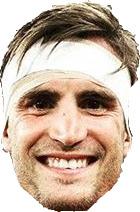
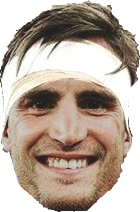
Contraste Tagliafico + reducción de chequeo

diff --git a/bot/commands/nuevo_instagram.py b/bot/commands/nuevo_instagram.py
@@ -1,6 +1,6 @@
 from discord.ext import commands
 
-from models.influencer import InfluencerModel
+from models.influencer import AttentionLevel, InfluencerModel
 from models.news_source import NewsSource
 from models.social_media import SocialMedia
 
@@ -9,29 +9,32 @@ class NuevoInstagram(commands.Cog):
         self.bot = bot
 
     @commands.command(name='nuevo_instagram')
-    async def nuevo_influencer(self, ctx, username: str, description: str, source: str):
-        
+    async def nuevo_influencer(self, ctx, username: str, description: str, source: str, attention: str = "high"):
         try:
             source_enum = NewsSource(source.lower())
             platform_enum = SocialMedia.INSTAGRAM
+            attention_enum = AttentionLevel(attention.lower())
 
-            if self.bot.influencer_dao.exists(username,platform_enum):
+            if self.bot.influencer_dao.exists(username, platform_enum):
                 await self.bot.messager.log(f'Ya sigo a {description} en Instagram.')
                 return
-            
+
             account = InfluencerModel(
                 account_id=None,
                 name=username,
                 description=description,
                 source=source_enum,
-                platform=platform_enum
+                platform=platform_enum,
+                attention=attention_enum,
             )
-            
+
             self.bot.influencer_dao.insert(account)
-            
-            await self.bot.messager.log(f'Suscrito a {description} a Instagram.')
+            await self.bot.messager.log(f'Suscrito a {description} en Instagram (atención: {attention_enum.value}).')
         except ValueError:
-            await self.bot.messager.log(f"No reconozco la fuente '{source}' para Instagram.", level="WARNING")
+            await self.bot.messager.log(
+                f"Parámetro inválido. Source debe ser un NewsSource válido y attention 'high' o 'low'.",
+                level="WARNING",
+            )
 
 async def setup(bot):
     await bot.add_cog(NuevoInstagram(bot))

diff --git a/bot/scheduled/instagram_check.py b/bot/scheduled/instagram_check.py
@@ -1,9 +1,18 @@
 import asyncio
 import random
+from datetime import datetime
 
 from discord.ext import commands, tasks
 
+from config.settings import settings
 from integrations.instagram import Instagram
+from models.influencer import AttentionLevel
+from models.social_media import SocialMedia
+
+# High: every hour except 02:00–07:59
+_HIGH_ACTIVE_HOURS = set(range(0, 2)) | set(range(8, 24))
+# Low: twice a day within 08:00–19:00
+_LOW_ACTIVE_HOURS = {9, 15}
 
 
 class InstagramCheckScheduler(commands.Cog):
@@ -18,11 +27,25 @@ class InstagramCheckScheduler(commands.Cog):
         if not self.instagram_scheduled_job.is_running():
             self.instagram_scheduled_job.start()
 
-    @tasks.loop(minutes=45)
+    @tasks.loop(hours=1)
     async def instagram_scheduled_job(self):
         await asyncio.sleep(random.uniform(0, 600))
+        hour = datetime.now(settings.TIMEZONE).hour
+
+        high_influencers = self.bot.influencer_dao.get_by_platform_and_attention(
+            SocialMedia.INSTAGRAM, AttentionLevel.HIGH
+        ) if hour in _HIGH_ACTIVE_HOURS else []
+
+        low_influencers = self.bot.influencer_dao.get_by_platform_and_attention(
+            SocialMedia.INSTAGRAM, AttentionLevel.LOW
+        ) if hour in _LOW_ACTIVE_HOURS else []
+
+        influencers = high_influencers + low_influencers
+        if not influencers:
+            return
+
         try:
-            await self.instagram.check_notifications()
+            await self.instagram.check_notifications(influencers)
         except Exception as e:
             await self.bot.messager.log(f"No pude escanear Instagram: {e}", level="ERROR", exc=e)
 

diff --git a/data_access/influencer_dao.py b/data_access/influencer_dao.py
@@ -1,4 +1,4 @@
-from models.influencer import InfluencerModel
+from models.influencer import AttentionLevel, InfluencerModel
 from models.news_source import NewsSource
 from models.social_media import SocialMedia
 from config.database import db
@@ -16,7 +16,8 @@ class InfluencerDAO:
             'name': model.name,
             'description': model.description,
             'source': model.source.value,
-            'platform': model.platform.value
+            'platform': model.platform.value,
+            'attention': model.attention.value,
         })
         return True
 
@@ -32,3 +33,6 @@ class InfluencerDAO:
 
     def get_by_platform(self, platform: SocialMedia) -> list:
         return list(self.collection.find({"platform": platform.value}))
+
+    def get_by_platform_and_attention(self, platform: SocialMedia, attention: AttentionLevel) -> list:
+        return list(self.collection.find({"platform": platform.value, "attention": attention.value}))

diff --git a/models/influencer.py b/models/influencer.py
@@ -1,10 +1,19 @@
+from enum import Enum
+
 from models.news_source import NewsSource
 from models.social_media import SocialMedia
 
+
+class AttentionLevel(str, Enum):
+    HIGH = "high"
+    LOW = "low"
+
+
 class InfluencerModel:
-    def __init__(self, account_id: str, name: str, description: str, platform: SocialMedia, source: NewsSource):
+    def __init__(self, account_id: str, name: str, description: str, platform: SocialMedia, source: NewsSource, attention: AttentionLevel = AttentionLevel.HIGH):
         self.account_id = account_id
         self.name = name
         self.description = description
         self.source = source
         self.platform = platform
+        self.attention = attention

diff --git a/integrations/instagram.py b/integrations/instagram.py
@@ -4,7 +4,6 @@ from datetime import datetime, timedelta, timezone
 import instaloader
 
 from config.settings import settings
-from models.social_media import SocialMedia
 
 
 class Instagram:
@@ -38,8 +37,7 @@ class Instagram:
         self._loader = loader
         return loader
 
-    async def check_notifications(self):
-        influencers: list[dict] = self.bot.influencer_dao.get_by_platform(SocialMedia.INSTAGRAM)
+    async def check_notifications(self, influencers: list[dict]):
         cutoff = datetime.now(timezone.utc) - timedelta(days=7)
 
         for influencer in influencers:
